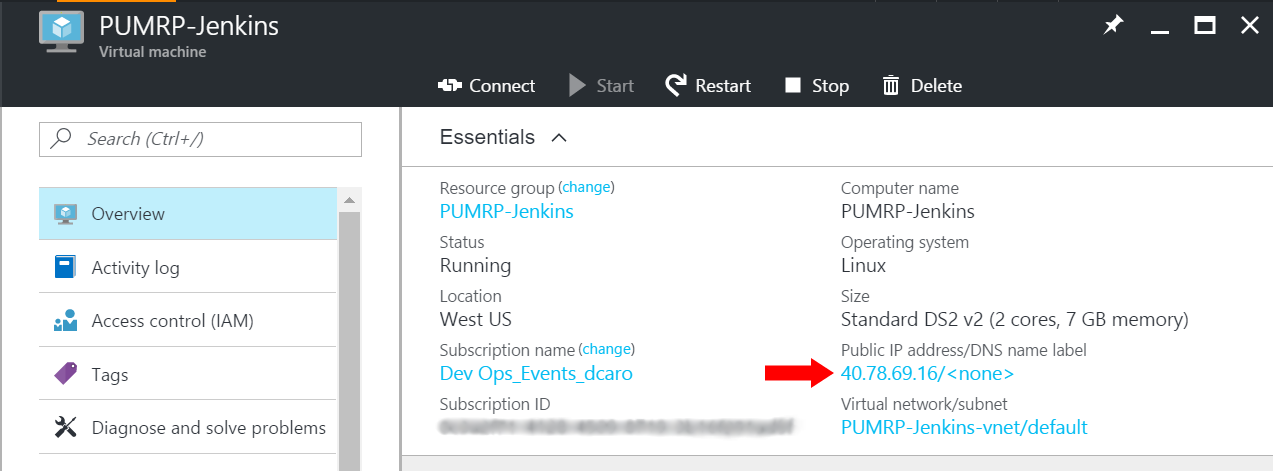
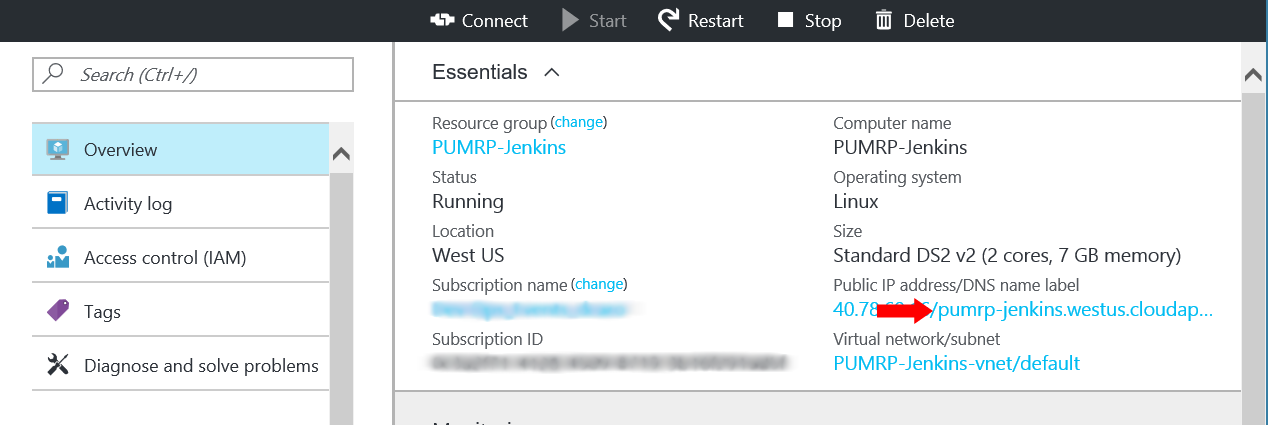
Updating images and links

diff --git a/docs/_posts/2016-08-19-fund-10-Oth-prereq.md b/docs/_posts/2016-08-19-fund-10-Oth-prereq.md
@@ -22,86 +22,45 @@ The following tasks will install a virtual machine running Ubuntu with Jenkins i
 ### Task 1: Create you Jenkins Master in Azure 
 We will use the preconfigured VM image that is available on the Azure Market place to deploy our Jenkins master.
 
+**1.** To deploy the Jenkins Master, simply click on the following button and fill in the fields.
 
 <a href="https://portal.azure.com/#create/Microsoft.Template/uri/https%3A%2F%2Fraw.githubusercontent.com%2Fdcaro%2FPartsUnlimitedMRP%2Fmaster%2Fdocs%2Fassets%2Fjenkins%2Fenv%2FJenkinsMaster.json" target="_blank">
         <img src="http://azuredeploy.net/deploybutton.png"/>
 </a>
 
+* Select the subscription where you want that virtual machine to be deployed
+* Click **Create new** for the resource group
+* Select the location closest to you
+* Type the prefix for the FQDN of the Jenkins master
+* Type the password for the jenkinsadmin user account 
 
-**1.** First, navigate with your browser to the Azure portal and sign in with your Azure subscription:
+![Deploy Jenkins Master image](<../assets/jenkins/jenkins_master_deploy.png>)
 
- [https://portal.azure.com](https://portal.azure.com)
+**2.** Click on the **Purchase** button.
 
-**2.** Click on the **+** on the top left of the portal and then click on **See all** 
+Wait until the deployment complete. 
 
-![](../assets/jenkins/search_marketplace.png){:height="150px"}
 
-**3.** Type jenkins in the search bar and select **Azure-Jenkins-012** in the list (the publisher is Microsoft). The blade with the description of the VM will appear on the right. Leave the deployment model as "Resource Manager" and click the **Create** button.
+**3.** Obtain the public IP of the Jenkins master VM. 
 
-![](<../assets/jenkins/jenkins_marketplace.png>)
+On the Azure portal, click on **Resource Group** and look for the Resource Group that you have just created.
 
-**4.** Set the basic parameters required for the deployment of the VM and click OK.
-
-* Name: This is the name of the virtual machine, use a name that will identify the VM easily.
-* VM disk type: leave the default (SSD).
-* User name: this is the name of the user that you will use to logon to the VM. root cannot be used.
-* Authentication type: You can use a password or and ssh key. You can use puttygen to generate the private/public key pair that you will use to connect to the VM.
-* Subscription: Select the subscription that you want to use to run your VM.
-* Resource group: We recommend that you create a new Resource Group to faciliate the clean-up process after you have completed this lab.
-* Location: Identify the location that is the closest to you to reduce the latency when you will access the VM. 
-
-![Basic configuration of the Jenkins VM](<../assets/jenkins/jenkins_vm_params1.png>){:height="500px"}
-
-**5.** Define the size of the Jenkins VM and click **Select**.
-
-We recommend to select _DS2\_V2 Standard_ for the size of the VM to run Jenkins for this lab.
-
-![Size for the Jenkins VM](<../assets/jenkins/jenkins_vm_params2.png>){:height="450px"}
-
-**6.** Leave the default for the advanced settings and click **OK**.
-
-![Advanced settings for the Jenkins VM](<../assets/jenkins/jenkins_vm_params3.png>){:height="500px"}
-
-**7.** Review the configuration of the Jenkin VM and click **OK**.
-
-![Review Jenkins VM configuration](<../assets/jenkins/jenkins_vm_params4.png>){:height="400px"}
-
-**8.** After the deployment of the VM has completed, open the Resource Group that you have defined in step 4 (in this example _PUMRP-Jenkins_) and click on the network security group object. The defautl name of the network security group is the name of the ressource group followed by "-nsg", in our example it it **PUMRP-Jenkins-nsg**. The blade that opens on the right shows the security rules that are associated with this networks security group.
-
-Click on **Inbound security rules**
-
-![Open the network security group for the jenkins master](<../assets/jenkins/azure_network_securitygroup.png>)
-
-**9.** Click on **Add** on the top of the "Inbound security rules" blade. 
-
-In the "Add inbound security rule" blade enter the following information and click **Ok** :
-
-* Name: enter "jenkins"
-* Priority: leave the default (1010)
-* Source: leave the default (Any)
-* Service: leave the default (Custom)
-* Protocol: leave the default (Any)
-* Port range: enter **8080**
-* Action: leave the default (Allow)
-
-![Create a security rule for Jenkins](<../assets/jenkins/azure_inbound_securityrule_add.png>){:height="200px"}
-![Create a security rule for Jenkins](<../assets/jenkins/azure_inbound_securityrule.png>){:height="400px"}
-
-**10.** Obtain the public IP of the Jenkins master VM. 
-
-Close the "Inbound security rules blade" and close the network security group blade (_PUMRP-Jenkins-nsg_ in this example).
-
-Click on the virtual machine in the resource group (_PUMRP-Jenkins_ in this example) and look for the "Public IP address/DNS name label".
+Click on the virtual machine in the resource group (_pumrp-jenkins_ in this example) and look for the "Public IP address/DNS name label".
 
 ![Obtain the public IP of the Jenkins Master](../assets/jenkins/jenkinsmaster_ip.png)
 
-**11.** SSH to the Jenkins Master VM
+**4.** SSH to the Jenkins Master VM
 
-Open PuTTY (or any other ssh tool that you like) and type the following information to logon to the VM.
+Open PuTTY (or any other ssh tool that you like) and type the following information to logon to the VM:
+```
+jenkinsadmin@pumrp-jenkins.westus.cloudapp.azure.com
+```
+You will need to adjust the connection to what you have specified in the first step.
+The user is jenkinsadmin in this lab. 
 
 ![SSH to the Jenkins Master VM](<../assets/jenkins/putty_to_jenkinsmaster.png>){:height="350px"}
 
-Then type the password that you have specified during step 4 or use the private key associated to the public key that you have defined then.
+Then type the password that you have specified.
 
 ### Task 2: Configure your Jenkins Master
 In this task, we will perform the basic configuration of the Jenkins master server and install the necesary plugins that will be used for Continuous Integration.
@@ -124,7 +83,7 @@ Keep the SSH session open, we will return at the end of this task.
 With your browser, navigate to the default page of the Jenkins master. 
 
 ```
-http://ip_address_of_your_jenkinsmaster:8080
+http://fqdn_of_your_jenkinsmaster:8080
 ```
 
 Paste the initial admin password obtained earlier to unlock your instance of Jenkins and click **Continue**.
@@ -152,9 +111,20 @@ Click the **Restart** button to restart Jenkins.
 
 You now have a virtual machine in Azure running Jenkins as a Master.
 
+**5.** Logon again on the jenkins master and navigate to the "Configure System" page:
+
+```
+http://fqdn_of_your_jenkinsmaster:8080/configure
+```
+Look for the Jenkins URL field and type the URL of your Jenkins master: http://fqdn_of_your_jenkinsmaster:8080/
+
+![Jenkins URL](<../assets/jenkins/jenkins_url.png>)
+
+Click **Save** 
+
 **5.** Install git
 
-Switch to the ssh session that was opened during step 1.
+Switch to the SSH session that was opened during step 1.
 
 Type the following command:
 ```

diff --git a/docs/_posts/2016-08-19-fund-11-Oth-CI.md b/docs/_posts/2016-08-19-fund-11-Oth-CI.md
@@ -41,7 +41,7 @@ During the following tasks you will fork the PartsUnlimitedMRP github repository
 **6.** Type the following in the **Payload URL**
 
 ```
-http://jenkins:Passw0rd@ip_address_of_your_jenkinsmaster:8080/job/PartsUnlimitedMRP/build
+http://jenkins:Passw0rd@fqdn_of_your_jenkinsmaster:8080/job/PartsUnlimitedMRP/build
 ```
 **NOTE:** You can use the IP or the FQDN of your jenkins master server
 
@@ -49,7 +49,7 @@ http://jenkins:Passw0rd@ip_address_of_your_jenkinsmaster:8080/job/PartsUnlimited
 
 **8.** Navigate to 
 ```
-http://ip_address_of_your_jenkinsmaster:8080/configureSecurity/
+http://fqdn_of_your_jenkinsmaster:8080/configureSecurity/
 ```
 
 **9.** Check the box "Allow anonymous read access"
@@ -66,7 +66,7 @@ The three tools that we will need to create our pipeline on Jenkins needs to be 
 
 Connect to the Jenkins master that you have configure in the previous lab using port 8080:
 ```
-http://ip_address_of_your_jenkinsmaster:8080/manage 
+http://fqdn_of_your_jenkinsmaster:8080/manage 
 ```
 
 **1.** Configure the JDK

diff --git a/docs/_posts/2016-08-19-fund-12-Oth-CD.md b/docs/_posts/2016-08-19-fund-12-Oth-CD.md
@@ -123,7 +123,7 @@ In this task we will update the Jenkins pipeline to automatically deploy the art
 
 Navigate to the configuration of your pipeline:
 ```
-http://ip_address_of_your_jenkinsmaster:8080/job/PartsUnlimitedMRP/configure
+http://fqdn_of_your_jenkinsmaster:8080/job/PartsUnlimitedMRP/configure
 ```
 
 In the pipeline, go to the end of the script and **before the last line** (the trailing "}" shall be behing this added code, insert the following code. 
@@ -246,7 +246,7 @@ You can change the title of the page for example.
 
 **4.** Navigate to your Jenkins master
 ```
-http://ip_address_of_your_jenkinsmaster:8080/job/PartsUnlimitedMRP/
+http://fqdn_of_your_jenkinsmaster:8080/job/PartsUnlimitedMRP/
 ```
 
 **5.** If not already there, the pipeline will stop at the stage "Get MRP hostname"
